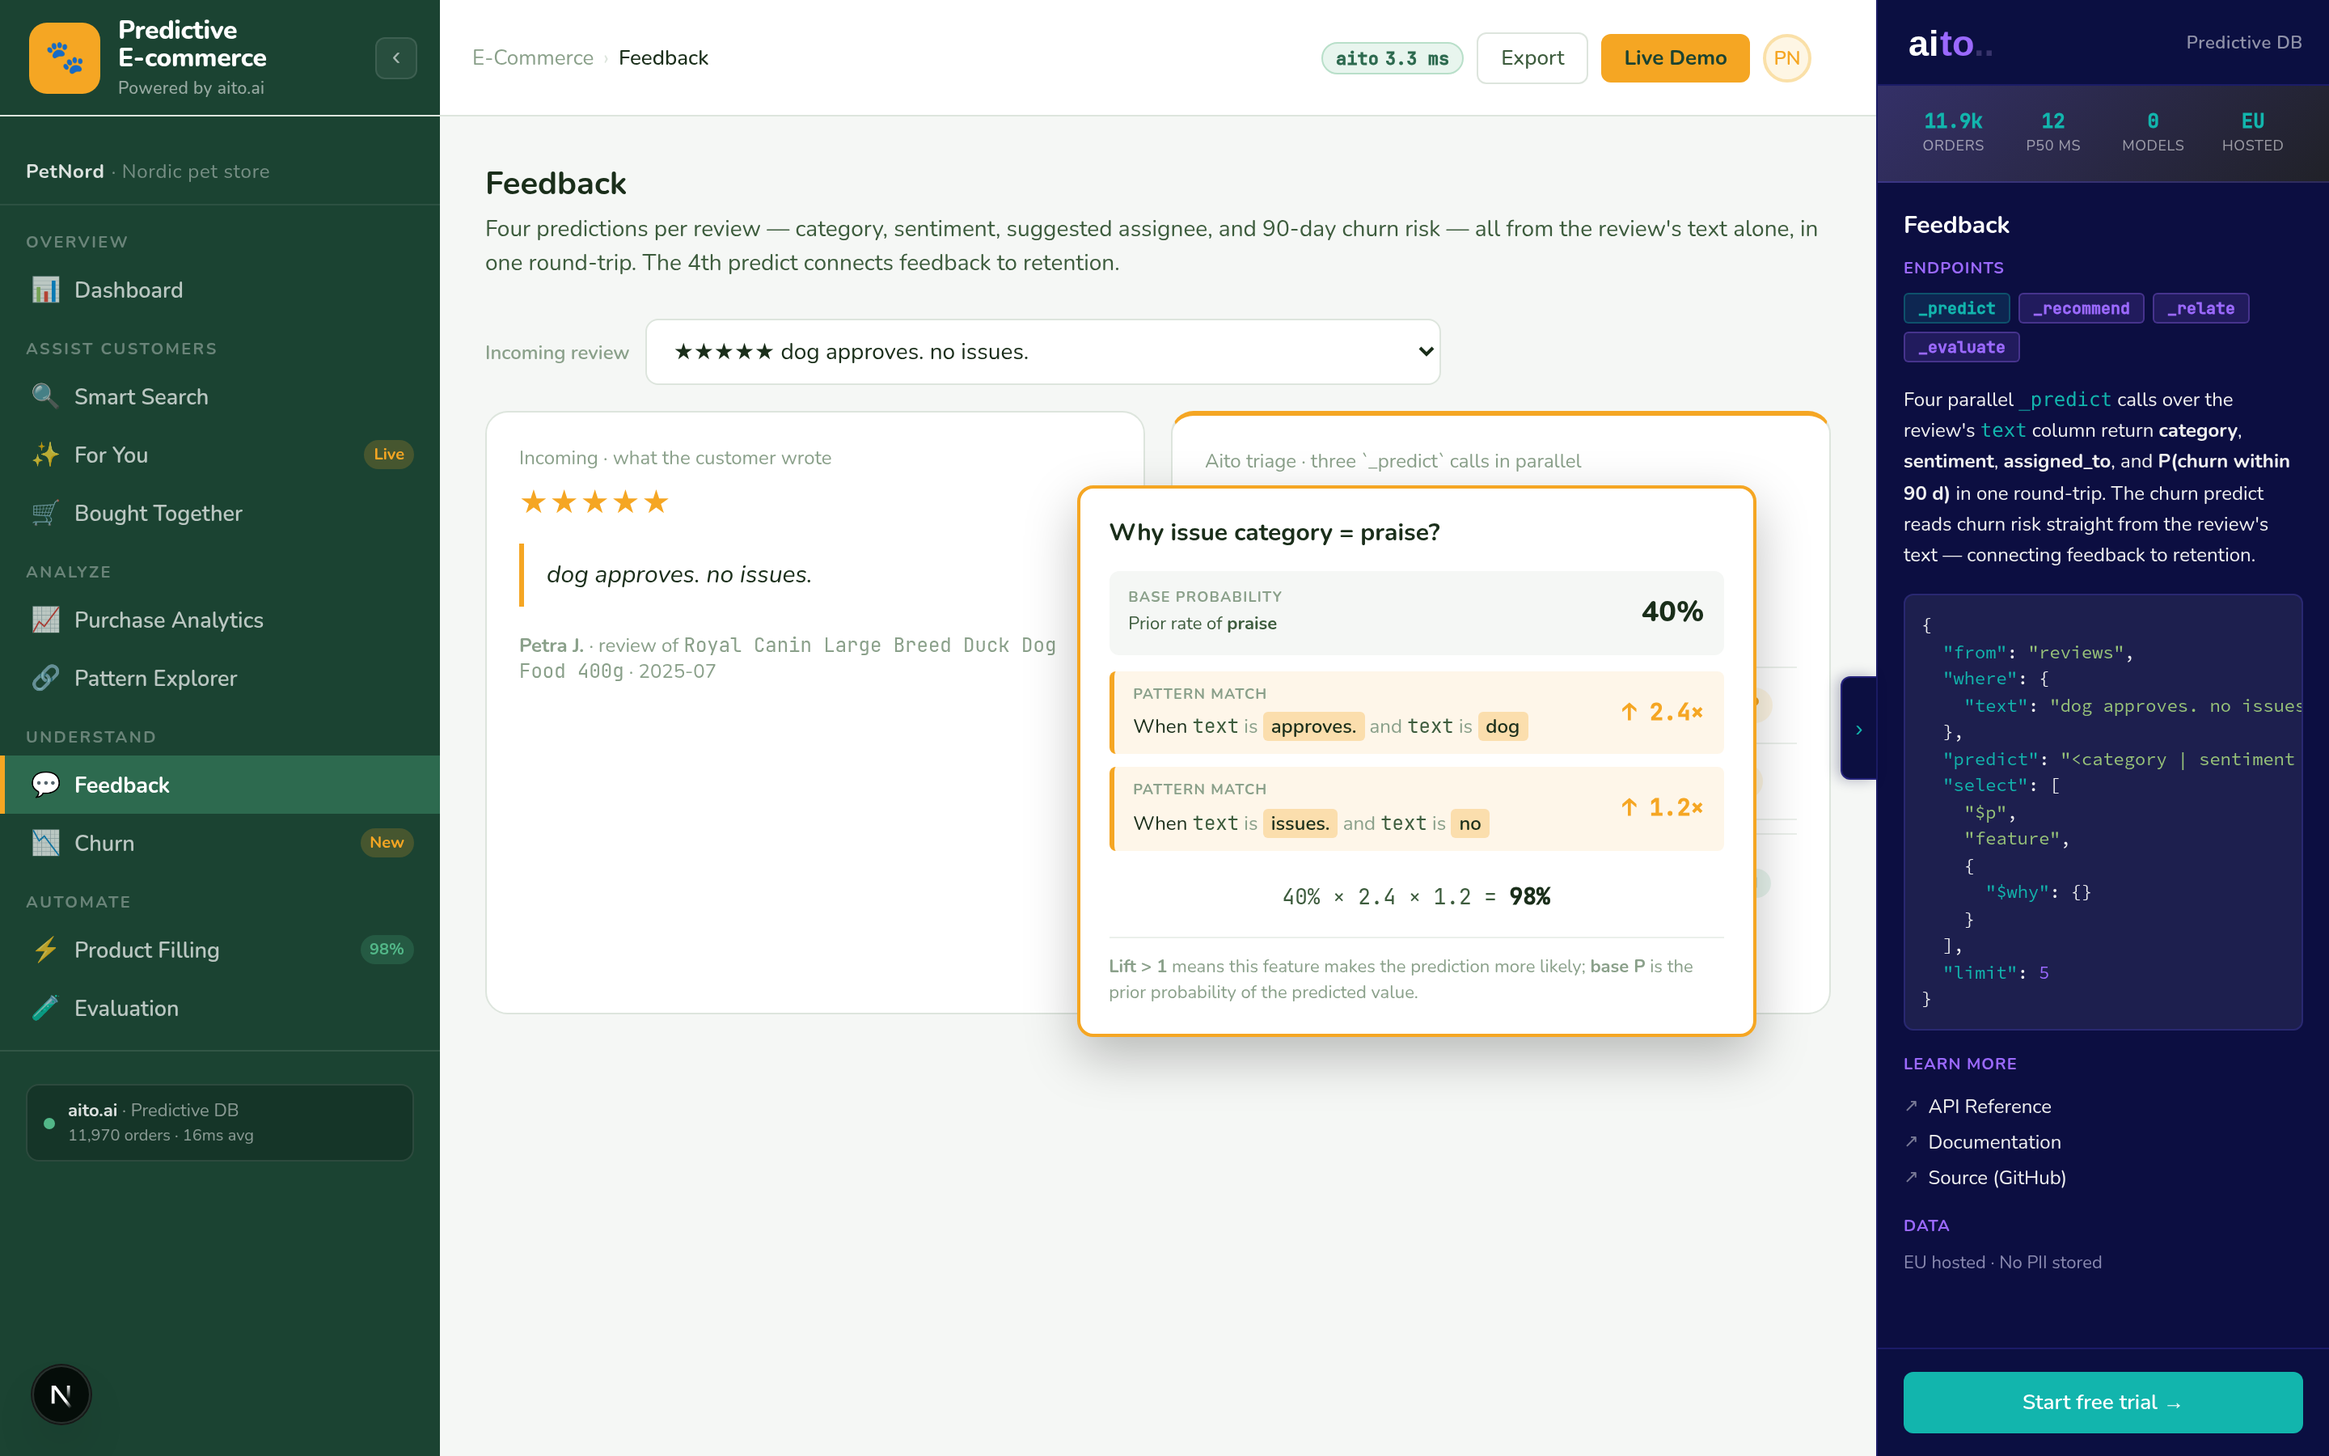
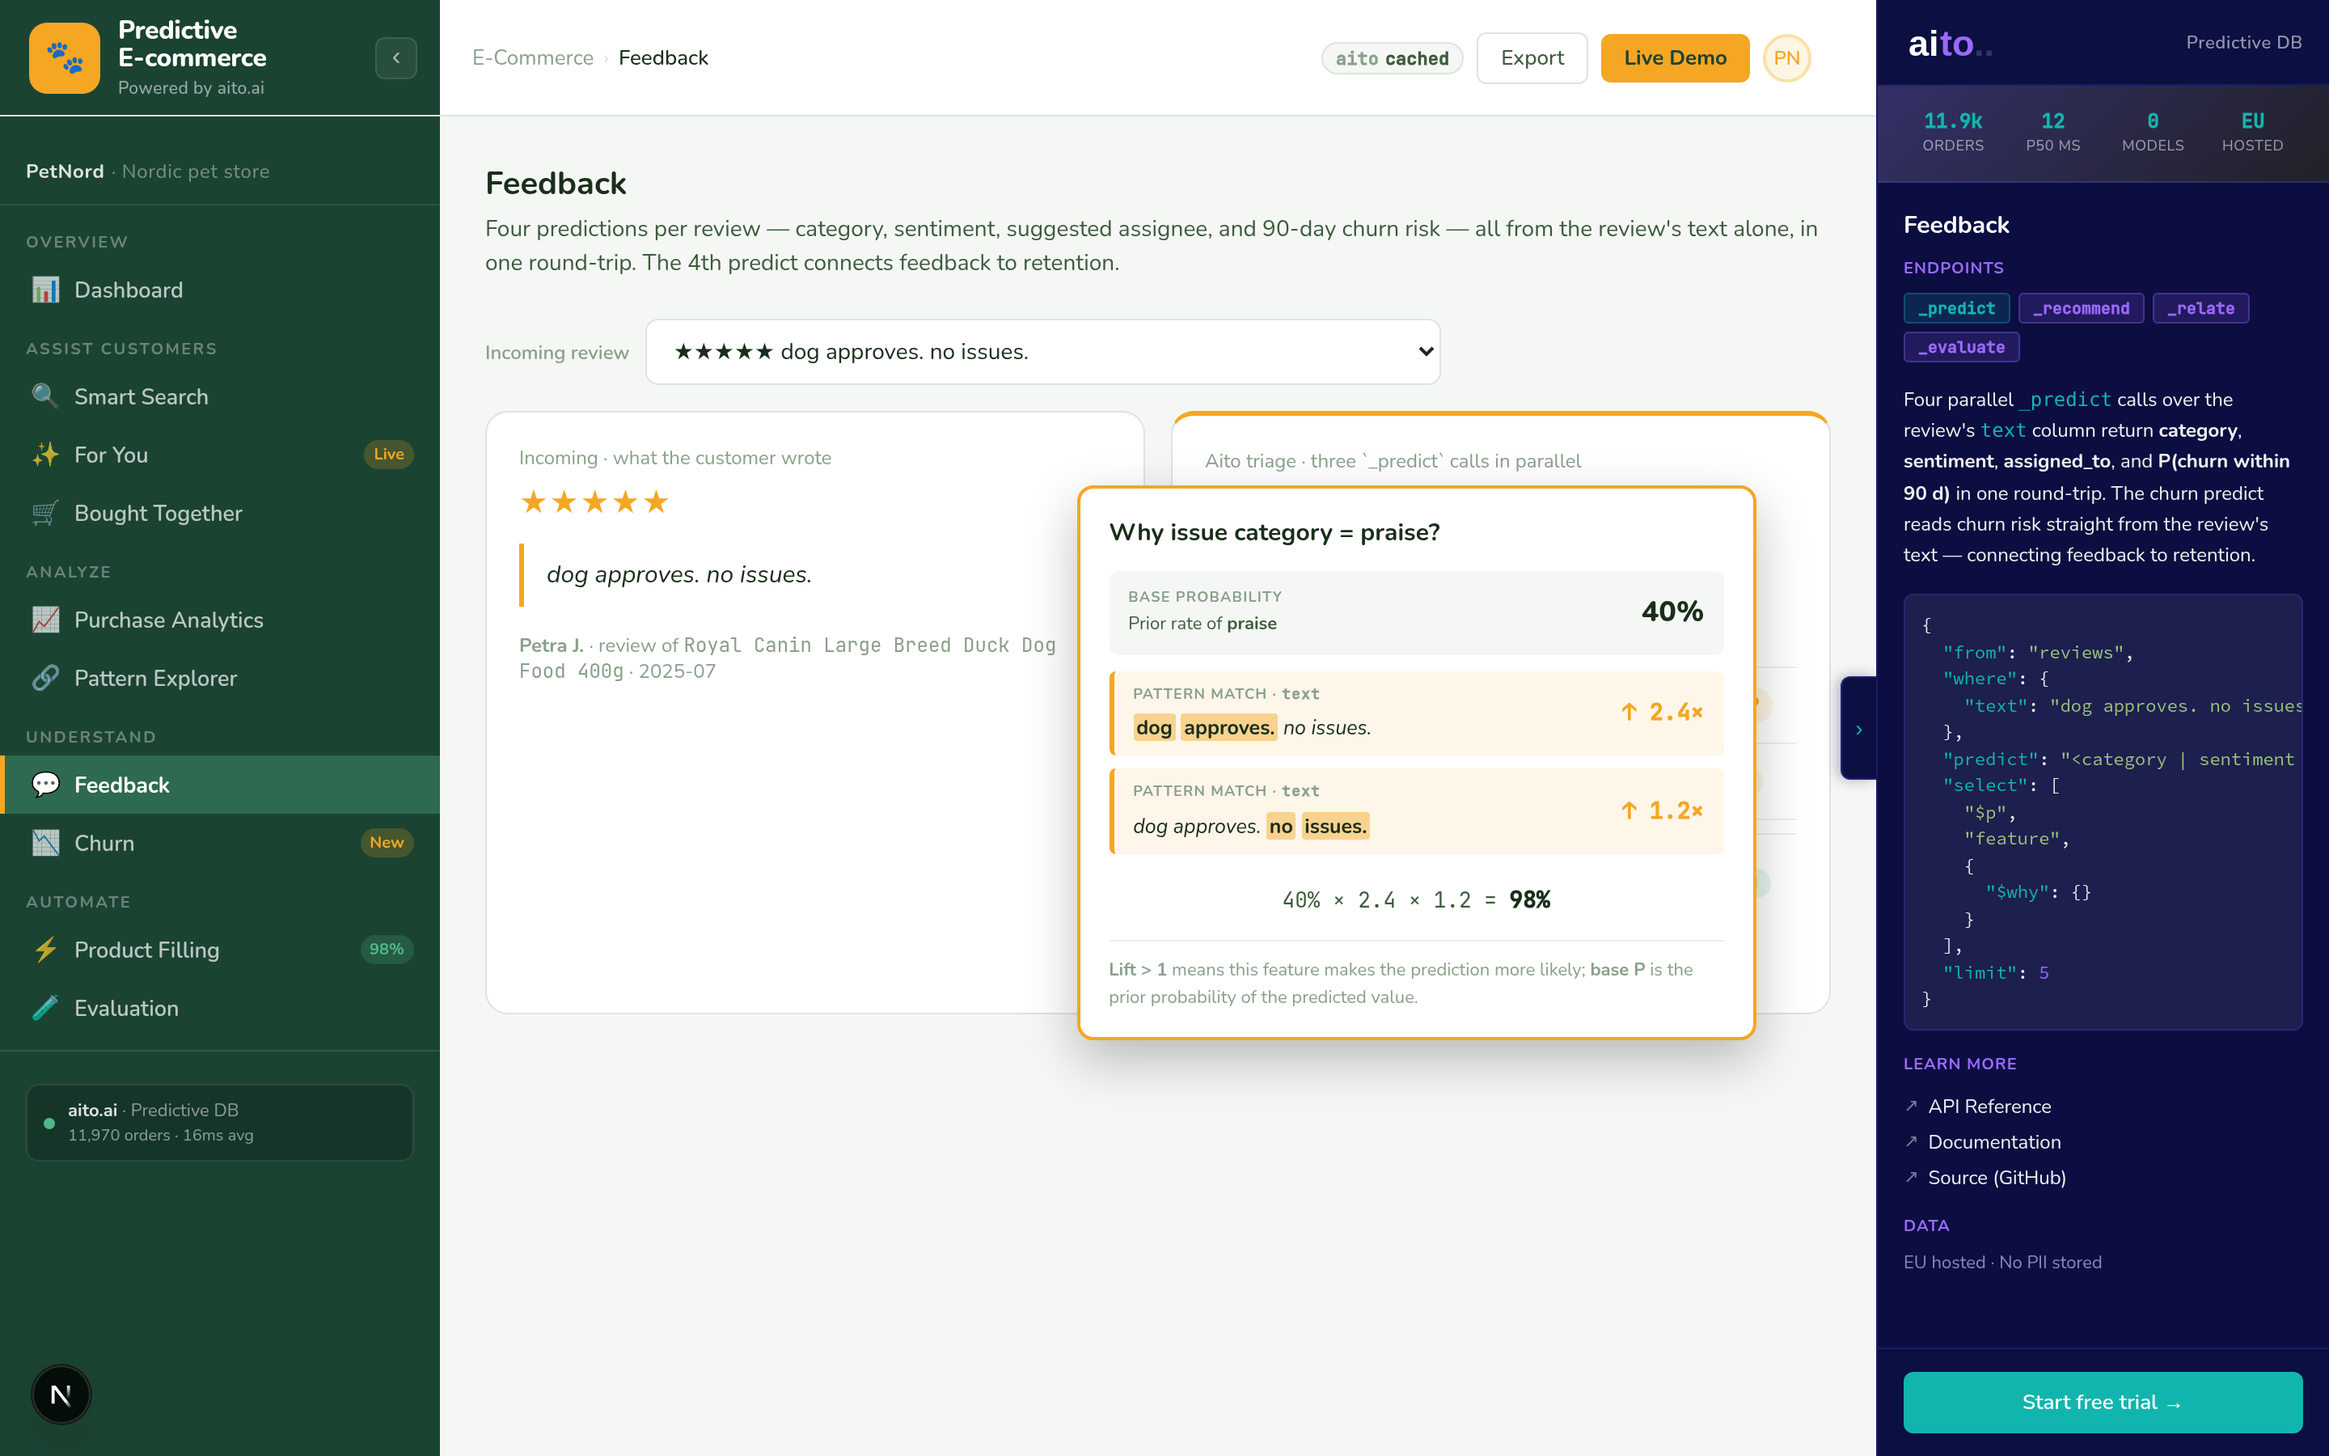
WhyPopover: full sentence with marked tokens for Text columns
Per the accounting demo's $why-highlight guide
(`aito-accounting-demo/.ai/guides/04-why-highlight-shape.md`):
Aito's `_predict` already returns each matched span with sentinel
tags around the predicting tokens, embedded in the original source
text. We were getting the data but not rendering it — the popover
showed only the structured "When X is Y" framing.

This commit surfaces the highlighted sentence in the popover.

## Backend — `src/aito_client.py`

`predict()` now requests both pos AND neg sentinels:

  posPreTag/posPostTag = «»     (lift > 1, drives prediction)
  negPreTag/negPostTag = ‹›     (lift < 1, protective)

Without negPreTag/negPostTag Aito defaults to `<font color="red">`
which the frontend would have to strip. Setting both keeps the
sentinel-split safe — no `dangerouslySetInnerHTML` needed.

## Backend — `src/why_processor.py`

Each `relatedPropositionLift` factor's `highlight` array is
surfaced as `{field, marked_text}` on the lift entry. `field`
has the `$context.` prefix stripped. When multiple highlights
are present (compound `$and` propositions touch multiple
columns), the top-scoring one wins.

## Frontend — `WhyPopover.tsx`

New `renderMarkedText` splits the marked-text string on the
sentinel pairs and renders each `«...»` / `‹...›` span as a
`<mark>`:

  - «...»  →  yellow-highlighted bold span  (positive)
  - ‹...›  →  red-tinted bold span          (negative)

The non-mark parts render as plain text, preserving the full
[…]

diff --git a/frontend/components/prediction/WhyPopover.tsx b/frontend/components/prediction/WhyPopover.tsx
@@ -1,6 +1,6 @@
 "use client";
 
-import { useEffect, useRef, useState } from "react";
+import React, { useEffect, useRef, useState } from "react";
 import { createPortal } from "react-dom";
 
 
@@ -10,9 +10,15 @@ export interface WhyProposition {
   negate?: boolean;
 }
 
+export interface WhyHighlight {
+  field: string;
+  marked_text: string;
+}
+
 export interface WhyLiftEntry {
   lift: number;
   propositions: WhyProposition[];
+  highlight?: WhyHighlight | null;
 }
 
 export interface WhyExplanationPayload {
@@ -207,6 +213,15 @@ export default function WhyPopover({ why, title }: WhyPopoverProps) {
 
 function PatternMatchCard({ entry }: { entry: WhyLiftEntry }) {
   const up = entry.lift >= 1;
+  // Use the highlighted-sentence rendering only when the source field
+  // has *surrounding text* — i.e., it's a Text-typed column where the
+  // marked tokens are embedded in a longer string. Numeric / String /
+  // Boolean columns produce highlights like `«3»` with nothing
+  // outside the sentinels; for those the structured "When X is Y"
+  // rendering reads better.
+  const highlight = entry.highlight && _hasSurroundingText(entry.highlight.marked_text)
+    ? entry.highlight
+    : null;
   return (
     <div style={{
       background: up ? "rgba(245,166,35,0.10)" : "rgba(82,183,136,0.08)",
@@ -228,30 +243,50 @@ function PatternMatchCard({ entry }: { entry: WhyLiftEntry }) {
           color: "var(--text-muted)",
           marginBottom: 4,
         }}>
-          Pattern match
-        </div>
-        <div style={{ fontSize: 12, color: "var(--text)" }}>
-          When{" "}
-          {entry.propositions.map((p, i) => (
-            <span key={i}>
-              {i > 0 && <span style={{ color: "var(--text-muted)" }}> and </span>}
-              <code style={{ fontFamily: "var(--mono)", color: "var(--text-2)" }}>
-                {p.field}
+          Pattern match{highlight && (
+            <>
+              {" · "}<code style={{ fontFamily: "var(--mono)", textTransform: "none" }}>
+                {highlight.field}
               </code>
-              <span style={{ color: "var(--text-muted)" }}>
-                {" "}{p.negate ? "is not " : "is "}
-              </span>
-              <span style={{
-                background: up ? "rgba(245,166,35,0.30)" : "rgba(82,183,136,0.22)",
-                padding: "1px 5px",
-                borderRadius: 3,
-                fontWeight: 600,
-              }}>
-                {p.value}
-              </span>
-            </span>
-          ))}
+            </>
+          )}
         </div>
+        {highlight ? (
+          // Highlighted-sentence rendering — Text-column matches surface
+          // the full source string with the matched tokens emphasised.
+          // Sentinel-split is safe; no innerHTML.
+          <div style={{
+            fontSize: 12.5,
+            color: "var(--text)",
+            fontStyle: "italic",
+            lineHeight: 1.55,
+          }}>
+            {renderMarkedText(highlight.marked_text, up)}
+          </div>
+        ) : (
+          <div style={{ fontSize: 12, color: "var(--text)" }}>
+            When{" "}
+            {entry.propositions.map((p, i) => (
+              <span key={i}>
+                {i > 0 && <span style={{ color: "var(--text-muted)" }}> and </span>}
+                <code style={{ fontFamily: "var(--mono)", color: "var(--text-2)" }}>
+                  {p.field}
+                </code>
+                <span style={{ color: "var(--text-muted)" }}>
+                  {" "}{p.negate ? "is not " : "is "}
+                </span>
+                <span style={{
+                  background: up ? "rgba(245,166,35,0.30)" : "rgba(82,183,136,0.22)",
+                  padding: "1px 5px",
+                  borderRadius: 3,
+                  fontWeight: 600,
+                }}>
+                  {p.value}
+                </span>
+              </span>
+            ))}
+          </div>
+        )}
       </div>
       <div style={{
         fontFamily: "var(--mono)",
@@ -264,6 +299,67 @@ function PatternMatchCard({ entry }: { entry: WhyLiftEntry }) {
       </div>
     </div>
   );
+}
+
+
+/**
+ * Split Aito's highlight string on the sentinel marks and render
+ * the full sentence with the matched spans wrapped in `<mark>`.
+ *
+ *  - «word» → positive-evidence span  (was `posPreTag` / `posPostTag`)
+ *  - ‹word› → negative-evidence span  (was `negPreTag` / `negPostTag`)
+ *
+ * No innerHTML; we parse the sentinels into React fragments so the
+ * source string is treated as text + the marks as structural spans.
+ * That's the project's safety convention (CLAUDE.md prime
+ * directive #2 — never silently inject).
+ */
+function renderMarkedText(text: string, positive: boolean): React.ReactNode {
+  // Match either «...» or ‹...› spans; capture them so .split keeps them.
+  const parts = text.split(/(«[^»]*»|‹[^›]*›)/);
+  return parts.map((part, i) => {
+    if (part.startsWith("«") && part.endsWith("»")) {
+      return (
+        <mark key={i} style={{
+          background: positive
+            ? "rgba(245,166,35,0.45)"
+            : "rgba(245,166,35,0.30)",
+          color: "inherit",
+          padding: "0 2px",
+          borderRadius: 2,
+          fontWeight: 700,
+          fontStyle: "normal",
+        }}>{part.slice(1, -1)}</mark>
+      );
+    }
+    if (part.startsWith("‹") && part.endsWith("›")) {
+      return (
+        <mark key={i} style={{
+          background: "rgba(231,76,60,0.18)",
+          color: "var(--red)",
+          padding: "0 2px",
+          borderRadius: 2,
+          fontWeight: 700,
+          fontStyle: "normal",
+        }}>{part.slice(1, -1)}</mark>
+      );
+    }
+    return <span key={i}>{part}</span>;
+  });
+}
+
+
+function _hasSurroundingText(s: string): boolean {
+  // Strip the marked spans; what's left is the surrounding sentence.
+  // For Int/String/Boolean highlights this is empty — fall back to
+  // the "When X is Y" structured rendering. For Text highlights
+  // ("Package arrived late. The seal was broken.") this is non-empty
+  // — render the full sentence with marks.
+  const stripped = s
+    .replace(/«[^»]*»/g, "")
+    .replace(/‹[^›]*›/g, "")
+    .trim();
+  return stripped.length > 0;
 }
 
 

diff --git a/frontend/lib/types.ts b/frontend/lib/types.ts
@@ -61,6 +61,11 @@ export interface WhyExplanationPayload {
   lifts: Array<{
     lift: number;
     propositions: Array<{ field: string; value: string; negate?: boolean }>;
+    /** Optional per-factor highlight from Aito. Present when the
+     *  factor matched on a Text-typed column; `marked_text` is the
+     *  full source string with `«…»` sentinels around the matched
+     *  tokens. Frontend splits on the sentinels — never raw HTML. */
+    highlight?: { field: string; marked_text: string } | null;
   }>;
   final_p: number | null;
 }

diff --git a/src/why_processor.py b/src/why_processor.py
@@ -78,6 +78,13 @@ def process_why(
                 lifts.append({
                     "lift": round(float(v), 3),
                     "propositions": _flatten_proposition(prop),
+                    # `highlight` is per-factor on `_predict` responses
+                    # (despite what some Aito guides say about a
+                    # `$why.highlights` array — that shape is the older
+                    # response form). When present it's a list of
+                    # `{score, field, highlight}` — we surface the
+                    # top-scoring entry for the popover to render.
+                    "highlight": _pick_highlight(node.get("highlight")),
                 })
             return
         # Recurse into product / sum / etc.
@@ -143,6 +150,30 @@ def _flatten_proposition(prop: Any) -> list[dict]:
             "value": _stringify(value),
         })
     return items
+
+
+def _pick_highlight(raw: Any) -> dict | None:
+    """Pick the top-scoring highlight from Aito's per-factor `highlight`
+    list. Returns `{field, marked_text}` or None.
+
+    Aito returns one entry per matched field; for compound propositions
+    (`{$and: [...]}`) the list may have one entry per field. We sort by
+    `score` descending and keep the first — that's the field with the
+    strongest token match.
+
+    `field` is `$context.<column>` in Aito's response; the prefix is
+    stripped here so the frontend sees just the column name.
+    """
+    if not isinstance(raw, list) or not raw:
+        return None
+    best = max(raw, key=lambda h: float(h.get("score", 0) or 0))
+    field = str(best.get("field", ""))
+    if field.startswith("$context."):
+        field = field[len("$context."):]
+    marked = best.get("highlight")
+    if not isinstance(marked, str) or not marked:
+        return None
+    return {"field": field, "marked_text": marked}
 
 
 def _stringify(v: Any) -> str:

diff --git a/src/aito_client.py b/src/aito_client.py
@@ -164,9 +164,15 @@ class AitoClient:
                     "$why": {
                         "highlight": {
                             # Sentinel tags — frontend splits and renders
-                            # without dangerouslySetInnerHTML.
-                            "posPreTag": "«",
+                            # without dangerouslySetInnerHTML. Both
+                            # positive (lift > 1) AND negative (lift < 1)
+                            # sentinels are set so the frontend never has
+                            # to parse Aito's default `<font color>` HTML.
+                            # See `docs/aito-cheatsheet.md` §Highlight.
+                            "posPreTag":  "«",
                             "posPostTag": "»",
+                            "negPreTag":  "‹",
+                            "negPostTag": "›",
                         }
                     }
                 },

diff --git a/docs/aito-cheatsheet.md b/docs/aito-cheatsheet.md
@@ -268,6 +268,71 @@ token = f"{product.pet_type}_{clean_cat}"
 
 ---
 
+## `$why` highlight — full sentence with marked tokens
+
+To surface **which tokens of a Text column drove the prediction**,
+add a `highlight` block to `$why` in the `_predict` select. Aito
+returns the **full source string** with sentinel tags around the
+matched spans — drop straight into the WhyPopover as "the sentence,
+with the predicting feature emphasised":
+
+```python
+# src/aito_client.py — `predict()` sets all four sentinels
+"select": [
+    "$p", "feature",
+    {"$why": {
+        "highlight": {
+            "posPreTag":  "«",   # lift > 1 spans  (drives prediction)
+            "posPostTag": "»",
+            "negPreTag":  "‹",   # lift < 1 spans  (protective)
+            "negPostTag": "›",
+        }
+    }},
+]
+```
+
+The response carries highlights **per factor** (one entry per
+`relatedPropositionLift` node), not in a top-level `highlights`
+array:
+
+```json
+{
+  "type": "relatedPropositionLift",
+  "proposition": { "$and": [
+    {"text": {"$has": "Package"}}, {"text": {"$has": "arrived"}}
+  ]},
+  "value": 5.28,
+  "highlight": [
+    {
+      "score": 4.80,
+      "field": "$context.text",
+      "highlight": "«Package» «arrived» late. The seal was broken."
+    }
+  ]
+}
+```
+
+Rendering rules (mirrors `aito-accounting-demo`'s
+`04-why-highlight-shape.md`):
+
+- Strip the `$context.` prefix when displaying the field name.
+- The `highlight` string is **the full source text** with the
+  matched tokens wrapped — render it verbatim with the sentinels
+  split into emphasised spans (`renderMarkedText` in
+  `WhyPopover.tsx`).
+- Highlights are per-field; for compound `$and` propositions the
+  list may contain one entry per matched column. Pick the
+  top-`score` entry.
+- Numeric / String / Decimal columns have **no highlight** —
+  fall back to "When field is value" rendering.
+
+**Gotcha**: `highlight` is expensive — Aito has to mark every
+candidate. With `limit: 20` and long text it can run > 30 s.
+Keep `limit ≤ 5` for highlighted predicts unless you're behind a
+cache.
+
+---
+
 ## `AitoClient` method ↔ endpoint cheat reference
 
 | Method | Endpoint | First view that uses it |
